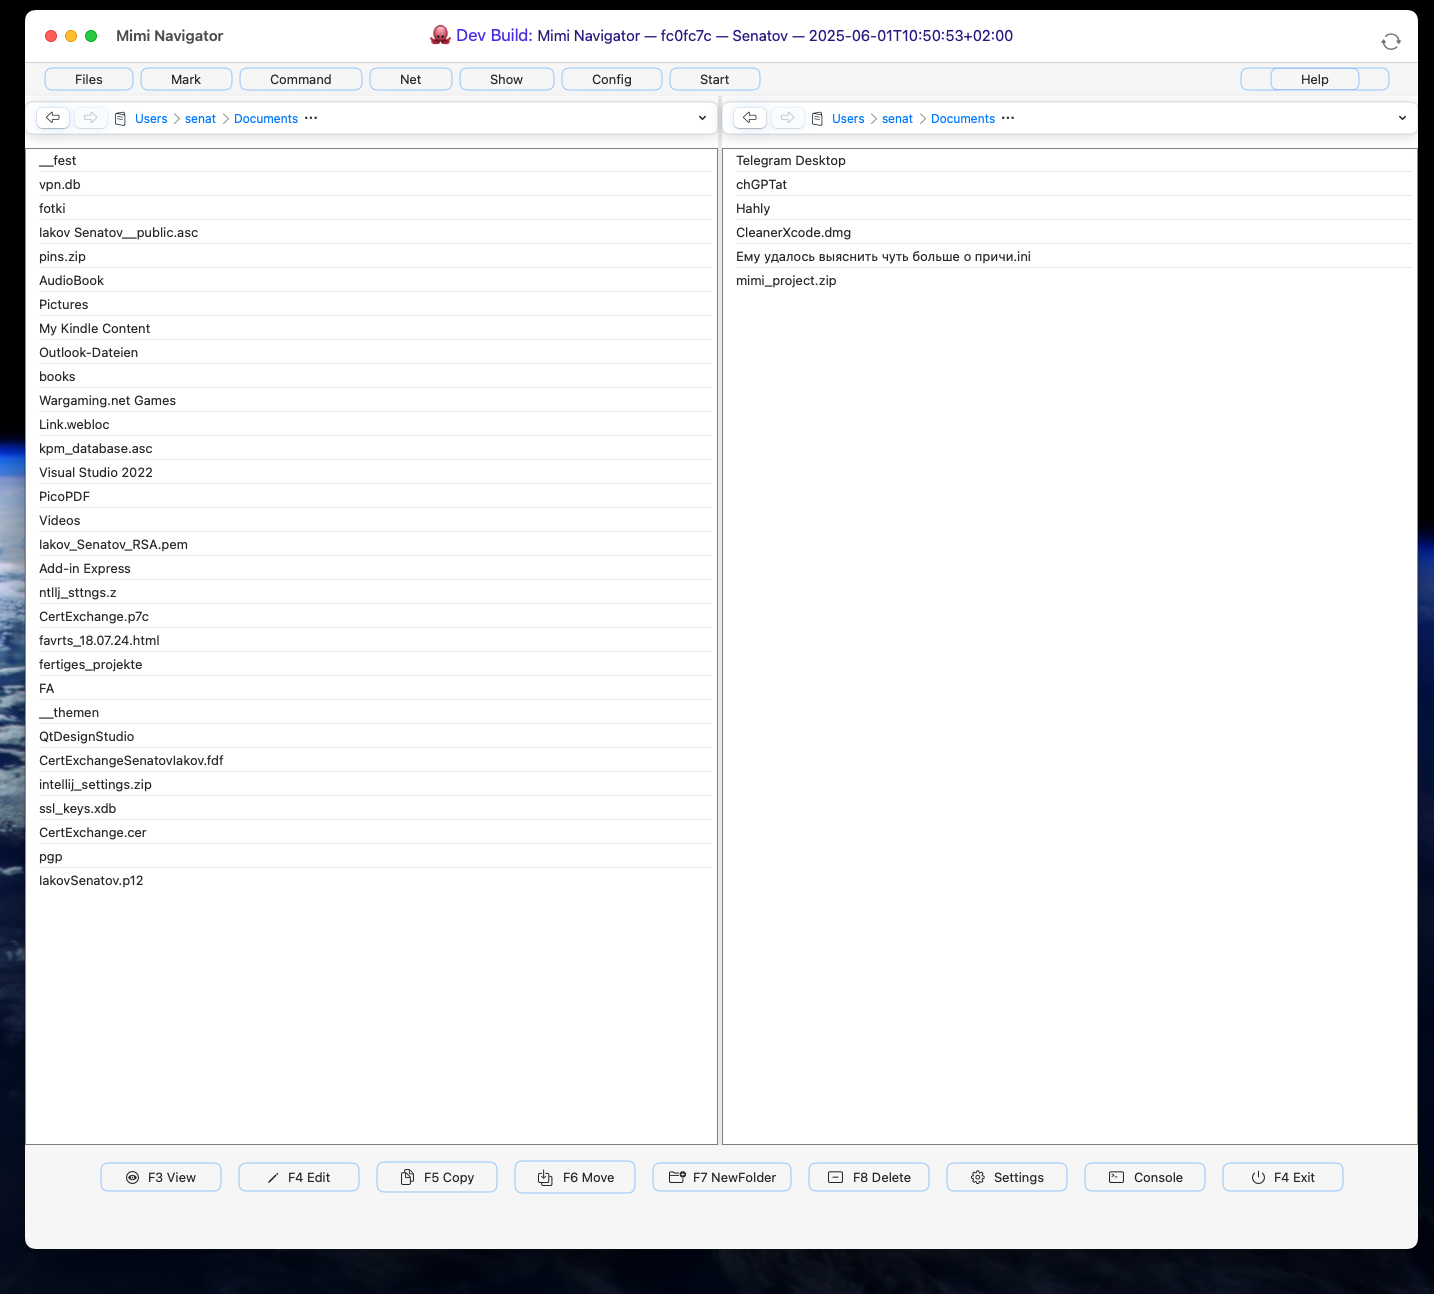
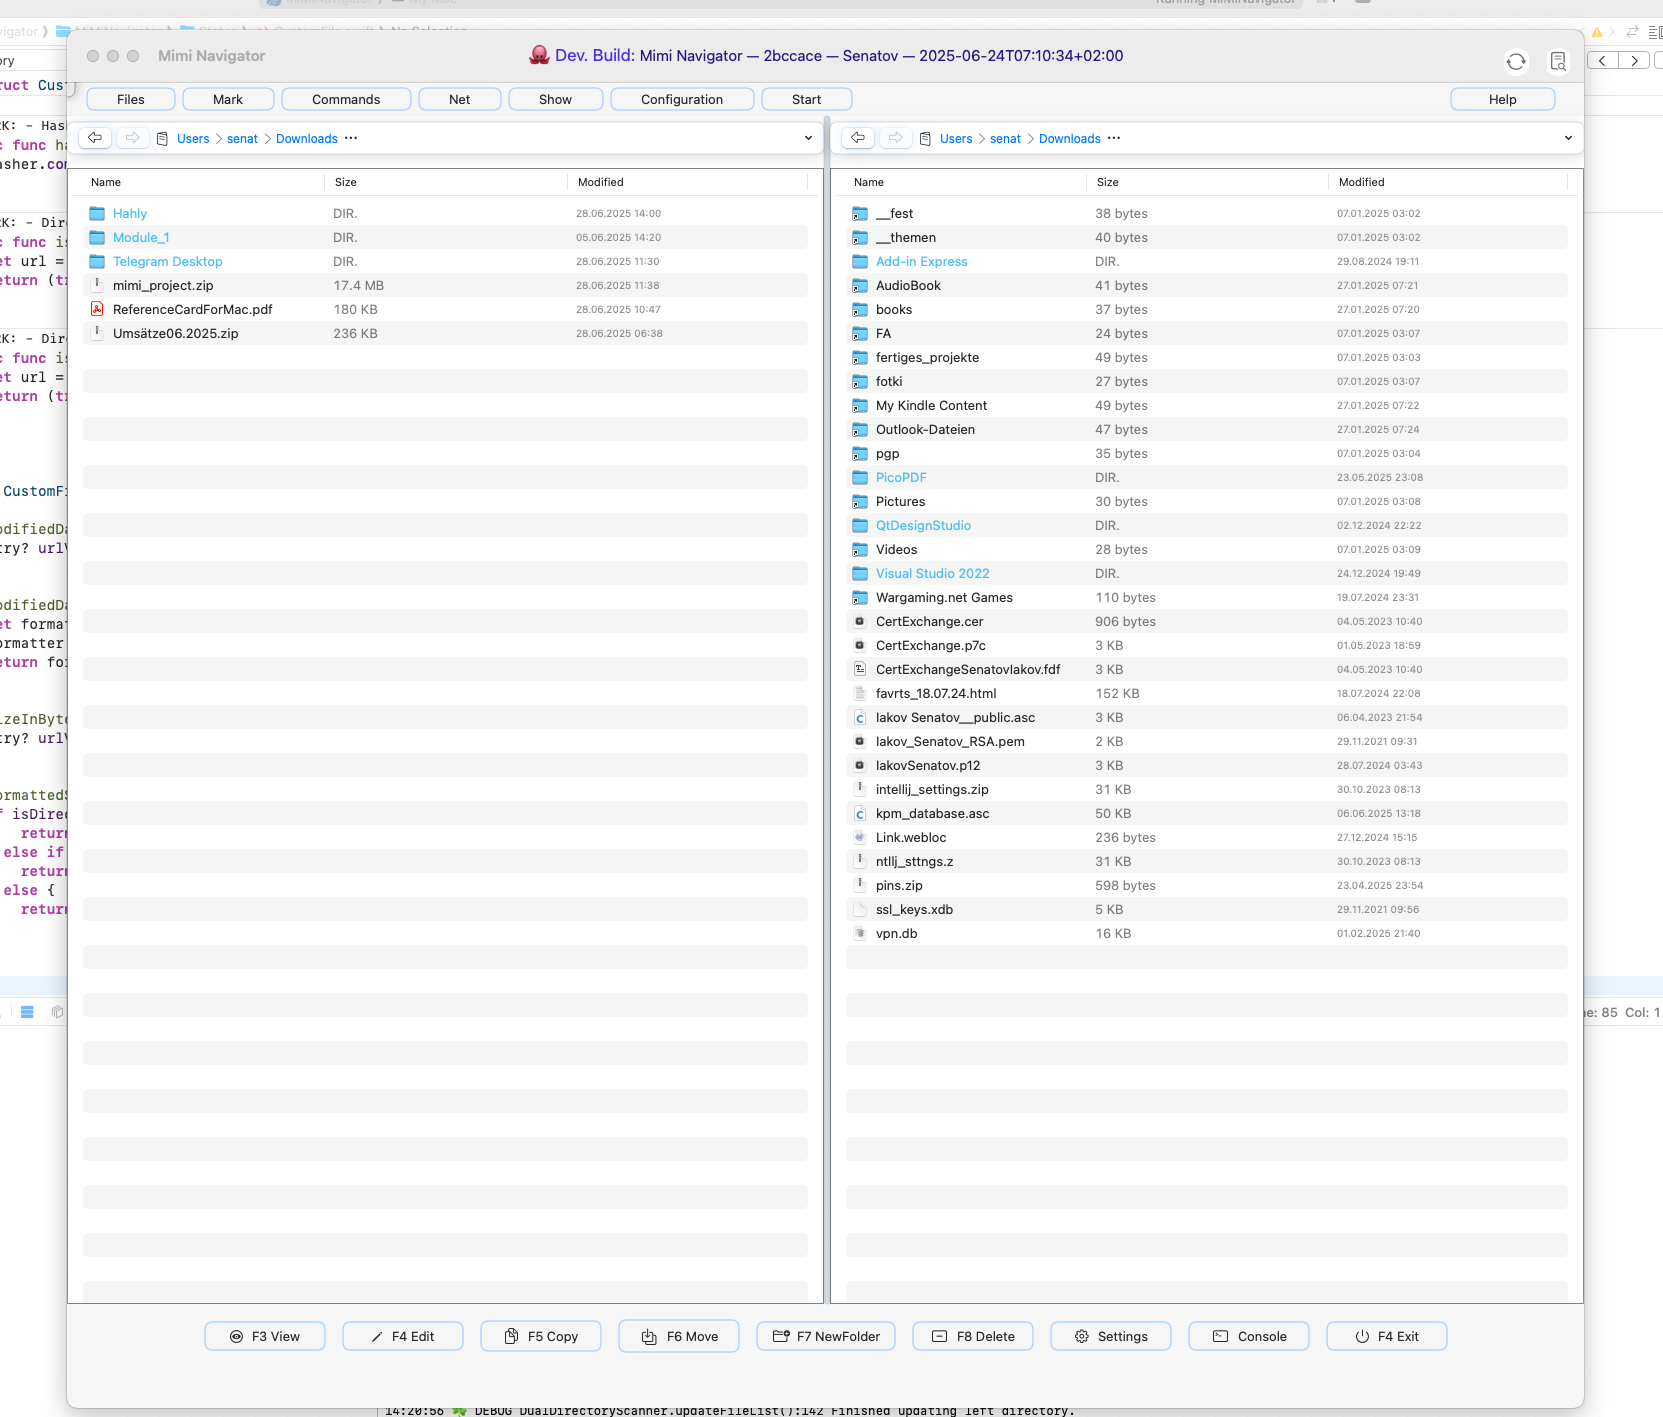
pnl new look

Changed region(s): [[0.0, 0.0, 1.0, 1.0], [0.7978, 0.1236, 0.8591, 0.6491], [0.3375, 0.1236, 0.3989, 0.2473]]

diff --git a/MiMiNavigator/Views/FilePanelView.swift b/MiMiNavigator/Views/FilePanelView.swift
@@ -1,0 +1,73 @@
+//
+//  FilePanelView.swift
+//  MiMiNavigator
+//
+//  Created by Iakov Senatov on 28.06.2025.
+//  Copyright © 2025 Senatov. All rights reserved.
+//
+
+
+import AppKit
+import SwiftUI
+
+struct FilePanelView: View {
+    @EnvironmentObject var appState: AppState
+    var side: PanelSide
+    var geometry: GeometryProxy
+    @Binding var leftPanelWidth: CGFloat
+    let fetchFiles: @concurrent (PanelSide) async -> Void
+
+    var body: some View {
+        let currentPath = appState.pathURL(for: side)
+        VStack {
+            EditablePathControlWrapper(appState: appState, selectedSide: side)
+                .onChange(of: currentPath) {
+                    guard let url = currentPath else {
+                        log.warning("Tried to set nil path for side \(side)")
+                        return
+                    }
+                    Task {
+                        appState.updatePath(url.absoluteString, on: side)
+                        await fetchFiles(side)
+                    }
+                }
+           let files = sortedFiles
+            Table(files, selection: .constant(nil)) {
+                TableColumn("Name") { file in
+                    HStack {
+                        Image(nsImage: NSWorkspace.shared.icon(forFile: file.urlValue.path))
+                            .resizable()
+                            .frame(width: 16, height: 16)
+                        Text(file.nameStr)
+                            .foregroundColor(file.isDirectory ? .cyan : .primary)
+                    }
+                }
+                TableColumn("Size") { file in
+                    Text(file.formattedSize)
+                        .foregroundColor(.secondary)
+                        .monospacedDigit()
+                }
+                TableColumn("Modified") { file in
+                    Text(file.modifiedDateFormatted)
+                        .font(.footnote)
+                        .foregroundColor(.gray)
+                }
+            }
+            .frame(maxWidth: .infinity, maxHeight: .infinity)
+            .padding(.horizontal, 6)
+            .border(Color.secondary)
+        }
+        .frame(width: side == .left ? (leftPanelWidth > 0 ? leftPanelWidth : geometry.size.width / 2) : nil)
+    }
+}
+
+private extension FilePanelView {
+    var sortedFiles: [CustomFile] {
+        let files = appState.displayedFiles(for: side)
+        let directories = files.filter { $0.isDirectory || $0.isSymbolicDirectory }
+            .sorted { $0.nameStr.localizedCompare($1.nameStr) == .orderedAscending }
+        let others = files.filter { !($0.isDirectory || $0.isSymbolicDirectory) }
+            .sorted { $0.nameStr.localizedCompare($1.nameStr) == .orderedAscending }
+        return directories + others
+    }
+}

diff --git a/MiMiNavigator/Views/TotalCommanderResizableView.swift b/MiMiNavigator/Views/TotalCommanderResizableView.swift
@@ -74,46 +74,8 @@ struct TotalCommanderResizableView: View {
 
     // MARK: -
     private func buildPanel(for side: PanelSide, geometry: GeometryProxy) -> some View {
-        log.info("↪ \(#function) [side: \(side)]")
-        let currentPath = appState.pathURL(for: side)
-        return VStack {
-            EditablePathControlWrapper(appState: appState, selectedSide: side)
-                .onChange(of: currentPath) {
-                    guard let url = currentPath else {
-                        log.warning("Tried to set nil path for side \(side)")
-                        return
-                    }
-                    Task {
-                        appState.updatePath(url.absoluteString, on: side)
-                        await fetchFiles(for: side)
-                    }
-                }
-            let files = appState.displayedFiles(for: side)
-            Table(files, selection: .constant(nil)) {
-                TableColumn("Name") { file in
-                    HStack {
-                        Image(systemName: file.isDirectory ? "folder.fill" : "doc.text")
-                            .foregroundColor(file.isDirectory ? .blue : .gray)
-                        Text(file.nameStr)
-                            .foregroundColor(file.isDirectory ? .cyan : .primary)
-                    }
-                }
-                TableColumn("Size") { file in
-                    Text(file.formattedSize)
-                        .foregroundColor(.secondary)
-                        .monospacedDigit()
-                }
-                TableColumn("Modified") { file in
-                    Text(file.modifiedDateFormatted)
-                        .font(.footnote)
-                        .foregroundColor(.gray)
-                }
-            }
-            .frame(maxWidth: .infinity, maxHeight: .infinity)
-            .padding(.horizontal, 6)
-            .border(Color.secondary)
-        }
-        .frame(width: side == .left ? (leftPanelWidth > 0 ? leftPanelWidth : geometry.size.width / 2) : nil)
+        log.debug(#function + " [side: \(side)]")
+        return FilePanelView(side: side, geometry: geometry, leftPanelWidth: $leftPanelWidth, fetchFiles: fetchFiles)
     }
 
 

diff --git a/MiMiNavigator/States/CustomFile.swift b/MiMiNavigator/States/CustomFile.swift
@@ -17,6 +17,7 @@ public struct CustomFile: Identifiable, Equatable, Hashable, Codable, Sendable  
     public let pathStr: String
     public let urlValue: URL
     public let isDirectory: Bool
+    public let isSymbolicDirectory: Bool 
     public var children: [CustomFile]?
 
     // MARK: - Initializes full metadata for the file system entity
@@ -26,6 +27,7 @@ public struct CustomFile: Identifiable, Equatable, Hashable, Codable, Sendable  
         self.urlValue = URL(fileURLWithPath: path).absoluteURL
         self.pathStr = path
         self.isDirectory = CustomFile.isThatDirectory(atPath: path)
+        self.isSymbolicDirectory = CustomFile.isThatSymbolic(atPath: path)
         self.nameStr = name?.isEmpty == false ? name! : urlValue.lastPathComponent
         self.children = isDirectory ? children ?? [] : nil
     }
@@ -46,6 +48,11 @@ public struct CustomFile: Identifiable, Equatable, Hashable, Codable, Sendable  
         return (try? url.resourceValues(forKeys: [.isDirectoryKey]).isDirectory) ?? false
     }
 
+    // MARK: - Directory Check
+    static func isThatSymbolic(atPath path: String) -> Bool {
+        let url = URL(fileURLWithPath: path)
+        return (try? url.resourceValues(forKeys: [.isSymbolicLinkKey]).isSymbolicLink) ?? false
+    }
 }
 
 
@@ -57,8 +64,7 @@ extension CustomFile {
 
     var modifiedDateFormatted: String {
         let formatter = DateFormatter()
-        formatter.dateStyle = .medium
-        formatter.timeStyle = .short
+        formatter.dateFormat = "dd.MM.yyyy HH:mm"
         return formatter.string(from: modifiedDate)
     }
     
@@ -67,6 +73,12 @@ extension CustomFile {
     }
 
     var formattedSize: String {
-        ByteCountFormatter.string(fromByteCount: sizeInBytes, countStyle: .file)
+        if isDirectory && isSymbolicDirectory {
+            return "LINK → DIR."
+        } else if isDirectory {
+            return "DIR."
+        } else {
+            return ByteCountFormatter.string(fromByteCount: sizeInBytes, countStyle: .file)
+        }
     }
 }
